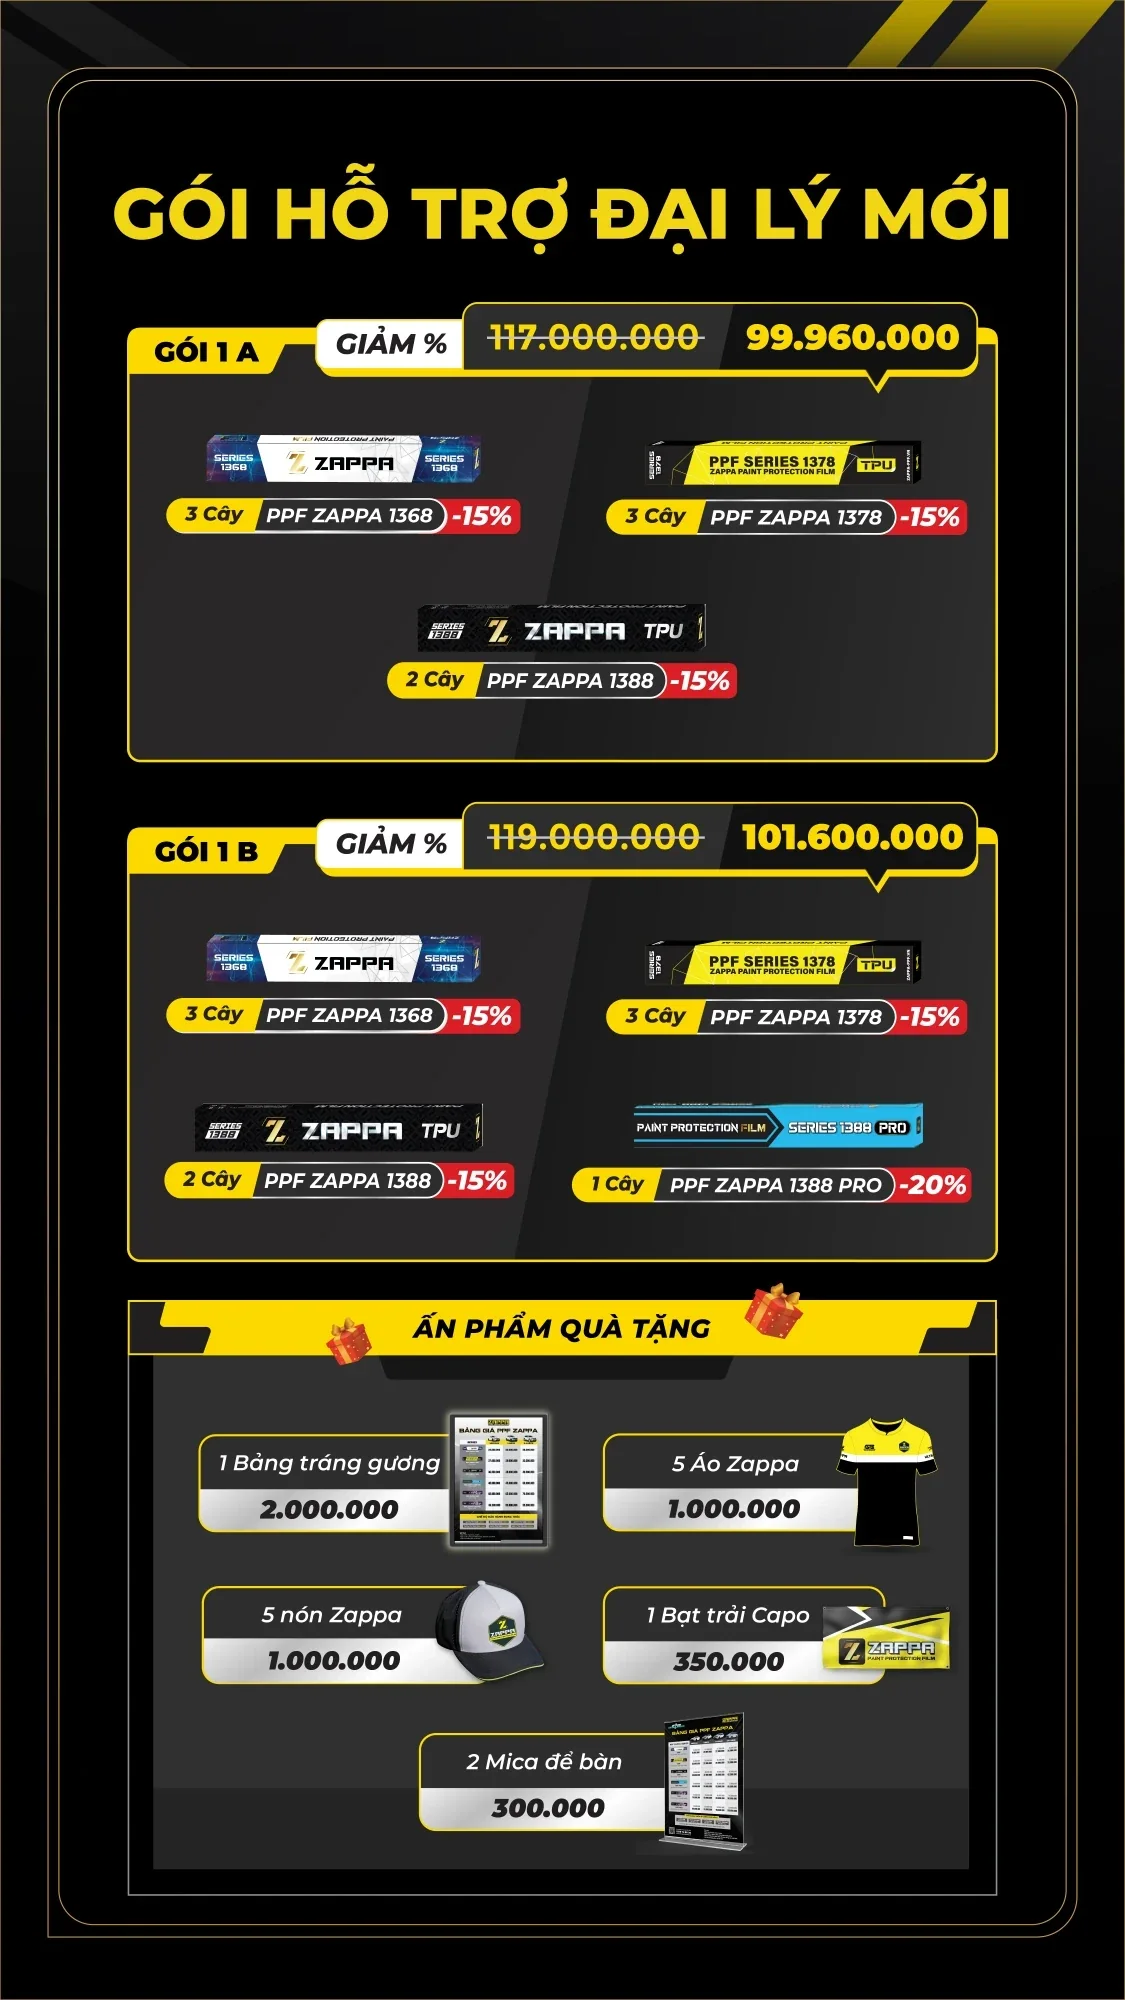
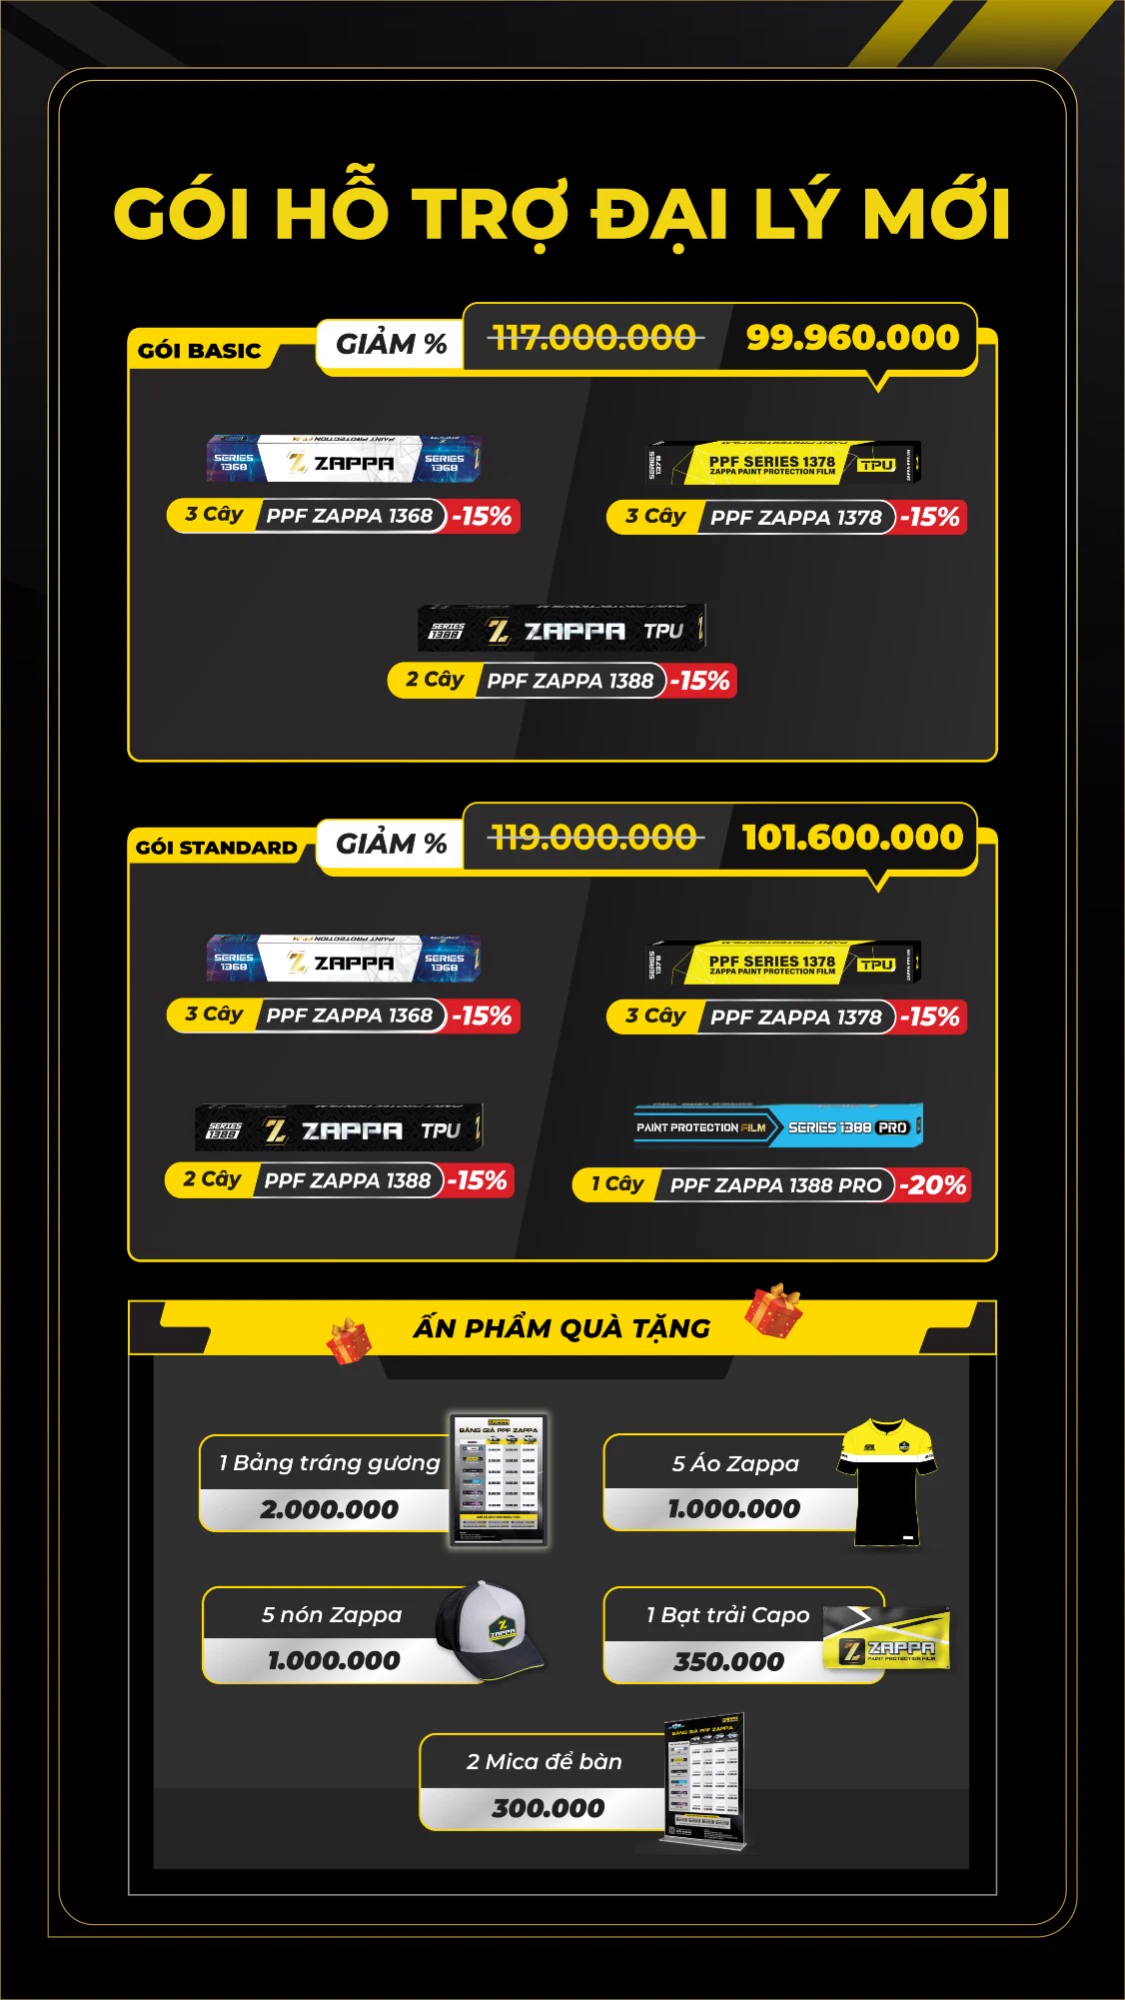
Thay 2 poster goi ho tro dai ly moi: goi Basic + Standard, goi Silver (qua tang ghi gia tri); doi ten trang va chu mo ta anh

diff --git a/web/index.html b/web/index.html
@@ -546,15 +546,15 @@ html.ready .route{opacity:1;transform:translate(-50%,0);pointer-events:auto}
     </div></div>
   </section>
 
-  <section class="board" id="goi-1" data-stop="Gói hỗ trợ đại lý 1" aria-label="Gói hỗ trợ đại lý mới: gói 1A và 1B">
+  <section class="board" id="goi-1" data-stop="Gói Basic · Standard" aria-label="Gói hỗ trợ đại lý mới: gói Basic và gói Standard">
     <div class="scroller" tabindex="-1"><div class="inner">
-      <img class="poster" src="assets/poster-goi-1.webp" width="1125" height="2000" alt="Gói hỗ trợ đại lý mới. Gói 1A: 117.000.000 còn 99.960.000 — 3 cây PPF Zappa 1368, 3 cây 1378, 2 cây 1388, giảm 15%. Gói 1B: 119.000.000 còn 101.600.000 — thêm 1 cây 1388 PRO giảm 20%. Ấn phẩm quà tặng: bảng tráng gương, 5 áo, 5 nón, bạt trải capo, 2 mica để bàn.">
+      <img class="poster" src="assets/poster-goi-1.webp" width="1125" height="2000" alt="Gói hỗ trợ đại lý mới. Gói Basic: 117.000.000 còn 99.960.000 — 3 cây PPF Zappa 1368, 3 cây 1378, 2 cây 1388, giảm 15%. Gói Standard: 119.000.000 còn 101.600.000 — 3 cây 1368, 3 cây 1378, 2 cây 1388 giảm 15%, 1 cây 1388 PRO giảm 20%. Ấn phẩm quà tặng: 1 bảng tráng gương (2.000.000), 5 áo Zappa (1.000.000), 5 nón Zappa (1.000.000), 1 bạt trải capo (350.000), 2 mica để bàn (300.000).">
     </div></div>
   </section>
 
-  <section class="board" id="goi-2" data-stop="Gói hỗ trợ đại lý 2" aria-label="Gói hỗ trợ đại lý mới: gói 2">
+  <section class="board" id="goi-2" data-stop="Gói Silver" aria-label="Gói hỗ trợ đại lý mới: gói Silver">
     <div class="scroller" tabindex="-1"><div class="inner">
-      <img class="poster" src="assets/poster-goi-2.webp" width="1125" height="2000" alt="Gói hỗ trợ đại lý mới — Gói 2: 182.300.000 còn 153.960.000 — 5 cây PPF Zappa 1368, 5 cây 1378, 3 cây 1388 giảm 15%, 1 cây 1388 PRO giảm 20%. Ấn phẩm quà tặng: bảng tráng gương, 5 áo, 5 nón, bạt trải capo, 2 mica để bàn, gói đào tạo kỹ thuật 1 người.">
+      <img class="poster" src="assets/poster-goi-2.webp" width="1125" height="2000" alt="Gói hỗ trợ đại lý mới — Gói Silver: 182.300.000 còn 153.960.000 — 5 cây PPF Zappa 1368, 5 cây 1378, 3 cây 1388 giảm 15%, 1 cây 1388 PRO giảm 20%. Ấn phẩm quà tặng: 1 bảng tráng gương (2.000.000), 5 áo Zappa (1.000.000), 5 nón Zappa (1.000.000), 1 bạt trải capo (350.000), 2 mica để bàn (300.000), gói đào tạo kỹ thuật 1 người.">
     </div></div>
   </section>
 
